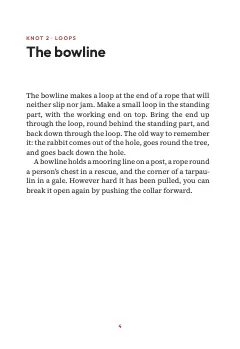
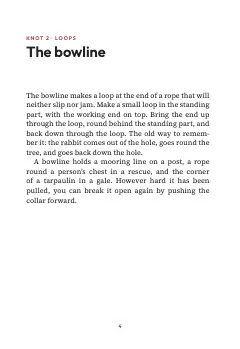
cookbook: Nº 103 holds its word spaces at 0.75 and tracks before it sets a line ragged
bodyText sets minWordSpacing 0.75 and maxJustifyTracking 10: the two lines that closed to 0.62 and 0.64 of the word space on pages 2 and 4 are gone, and "about an arm’s" ends its line whole now that the English dictionary no longer divides the word. The recipe pins postext 1.26.0; still 10 pages, pages 2, 3, 4 and 9 change.

refs #669

Changed region(s): [[0.0875, 0.3725, 0.875, 0.6017]]

diff --git a/cookbook/folio-settings-bench/script.js b/cookbook/folio-settings-bench/script.js
@@ -1,7 +1,7 @@
 // ═══ Postext Cookbook · Nº 103 · A bench for the Folio viewer's settings ═══════════════
 // https://postext.dev/en/cookbook/folio-settings-bench
 // Code: MIT · Text: original (CC BY 4.0) · Pictures: none
-// Fonts: Source Serif 4, Outfit (SIL OFL 1.1) · Needs postext ≥ 1.25.0
+// Fonts: Source Serif 4, Outfit (SIL OFL 1.1) · Needs postext ≥ 1.26.0
 //
 // A pocket book of knots, laid out once and opened in postext-folio next to a form of every
 // folio setting: paper, binding, covers, desk, light and tilt. Each change goes to the viewer
@@ -97,6 +97,7 @@ const config = () => ({
     color: col('ink'), boldColor: col('ink'), italicColor: col('ink'),
     referenceColor: col('ink'), textAlign: 'justify', firstLineIndent: mm(3.5),
     indentAfterHeading: false, hyphenation: { enabled: true }, optimalLineBreaking: true,
+    minWordSpacing: 0.75, maxJustifyTracking: 10, // spaces from 0.75×; then 1 % of tracking
     avoidWidows: true, avoidOrphans: true, avoidRunts: true },
   headings: { fontFamily: SANS, color: col('ink'), fontWeight: 600, levels: [
     // A chapter opens on the next page, recto or verso.
